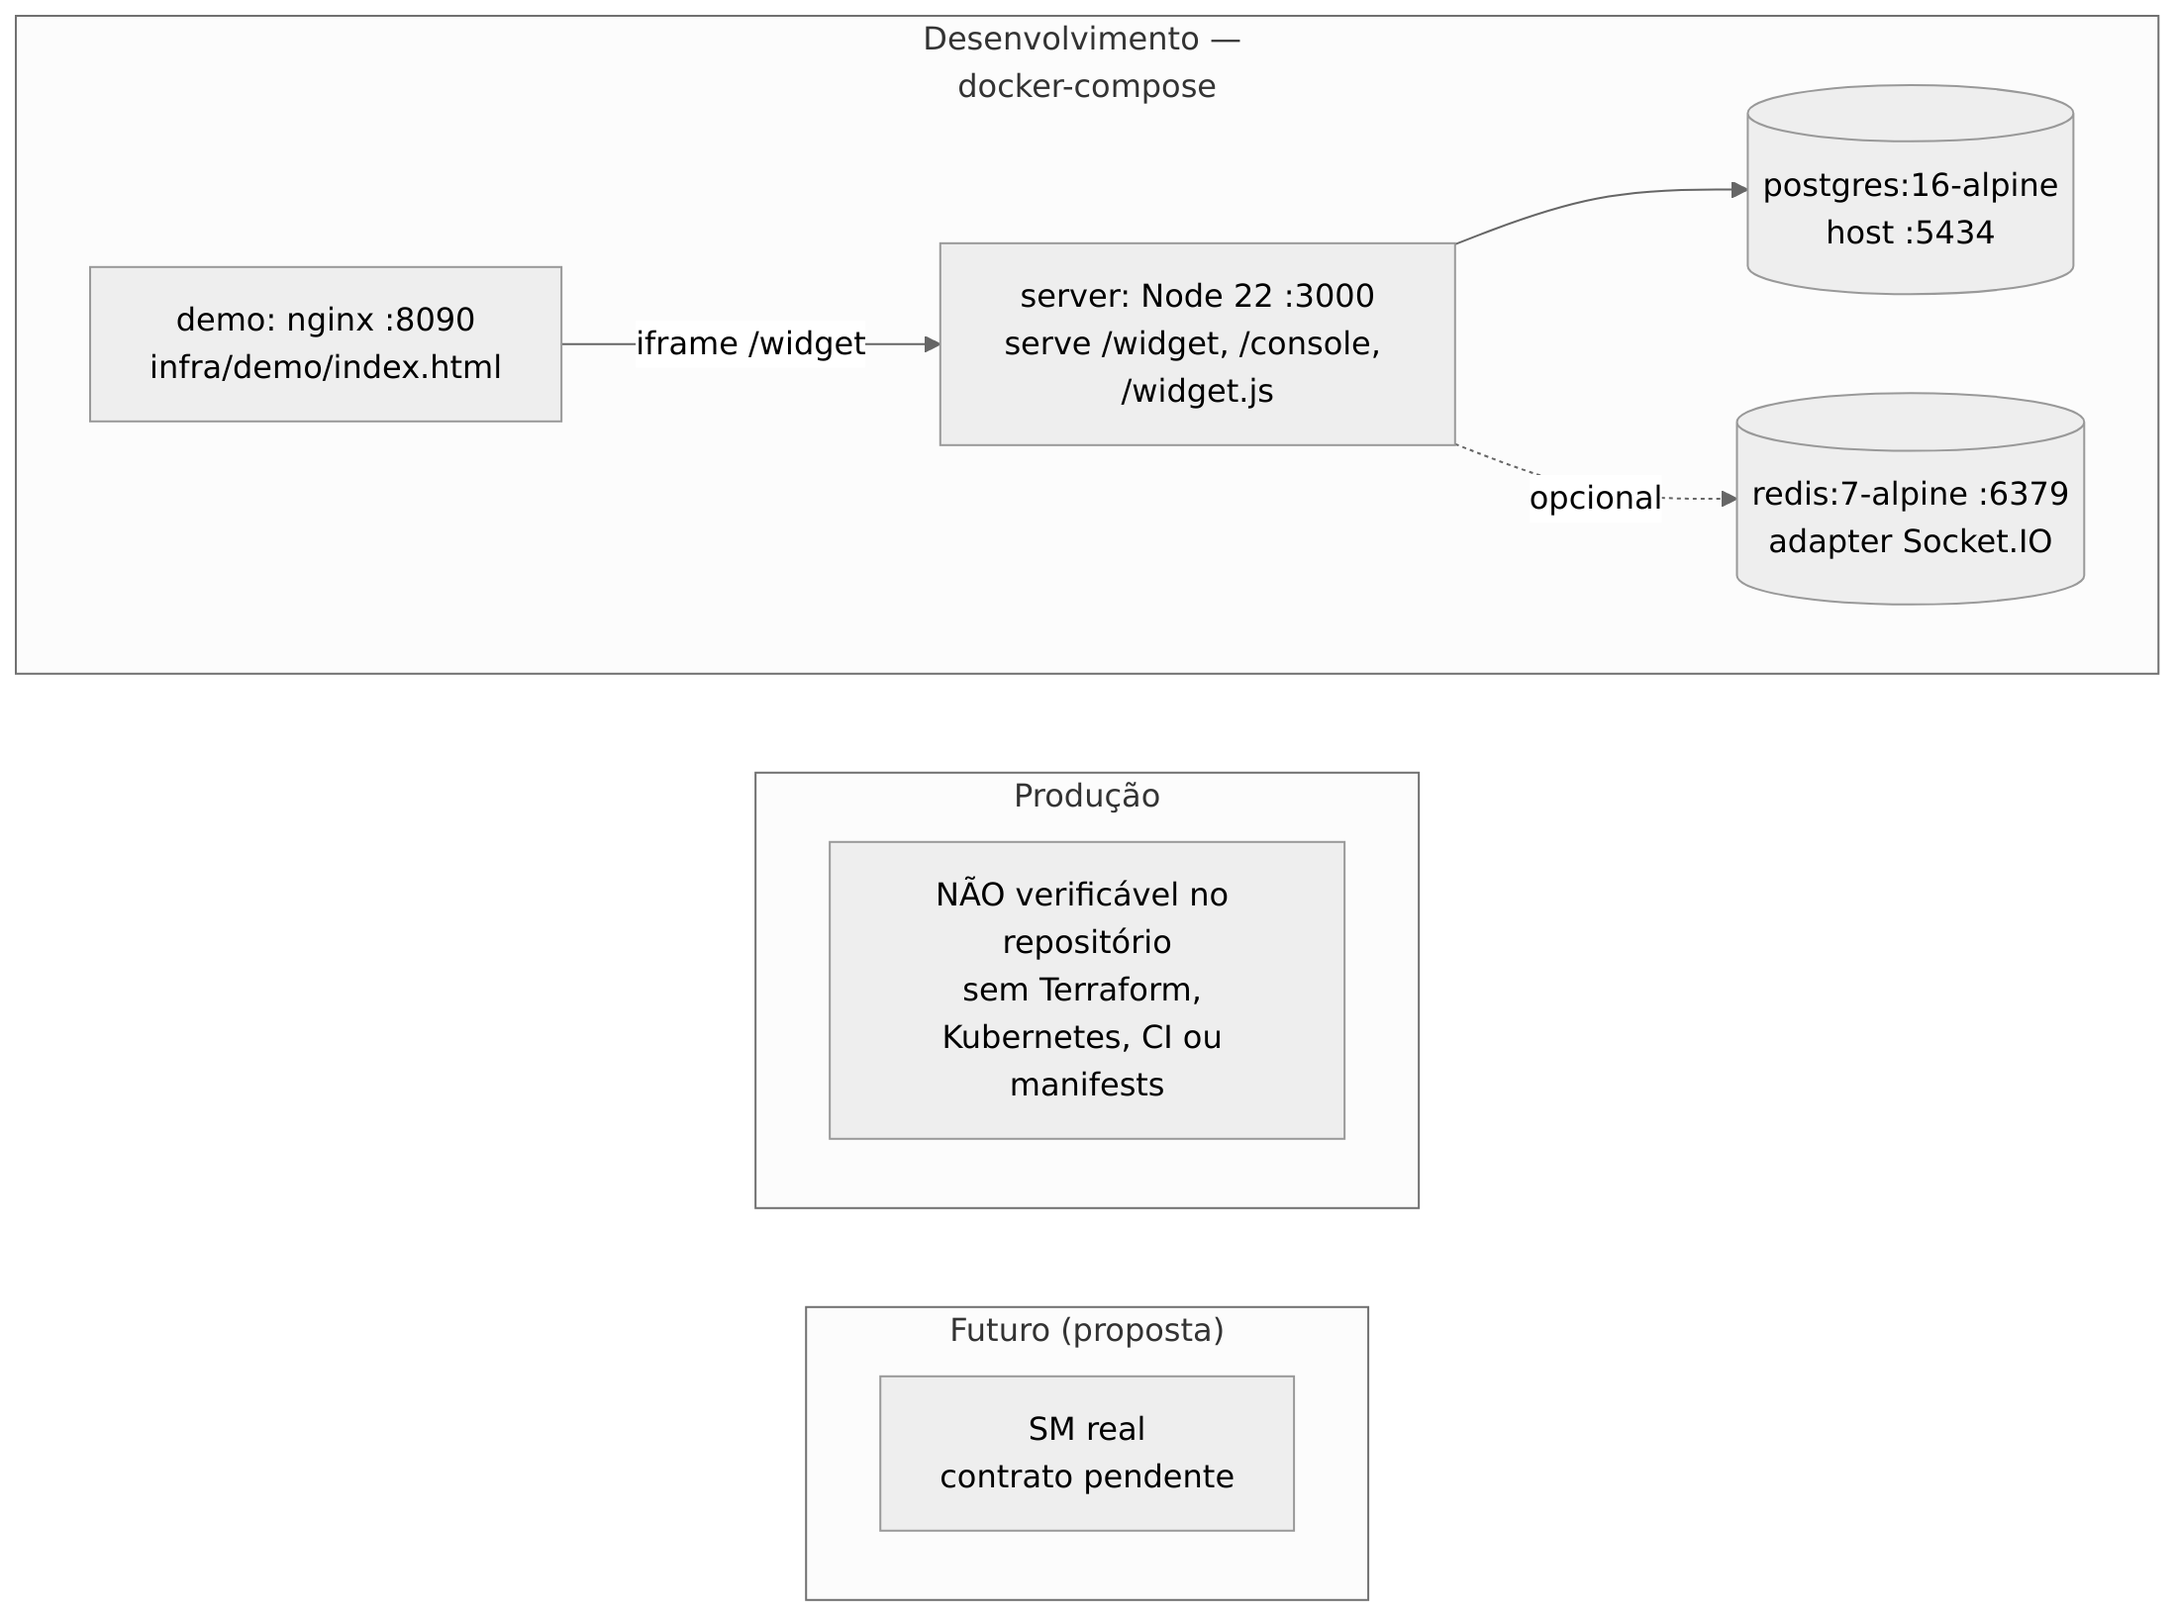
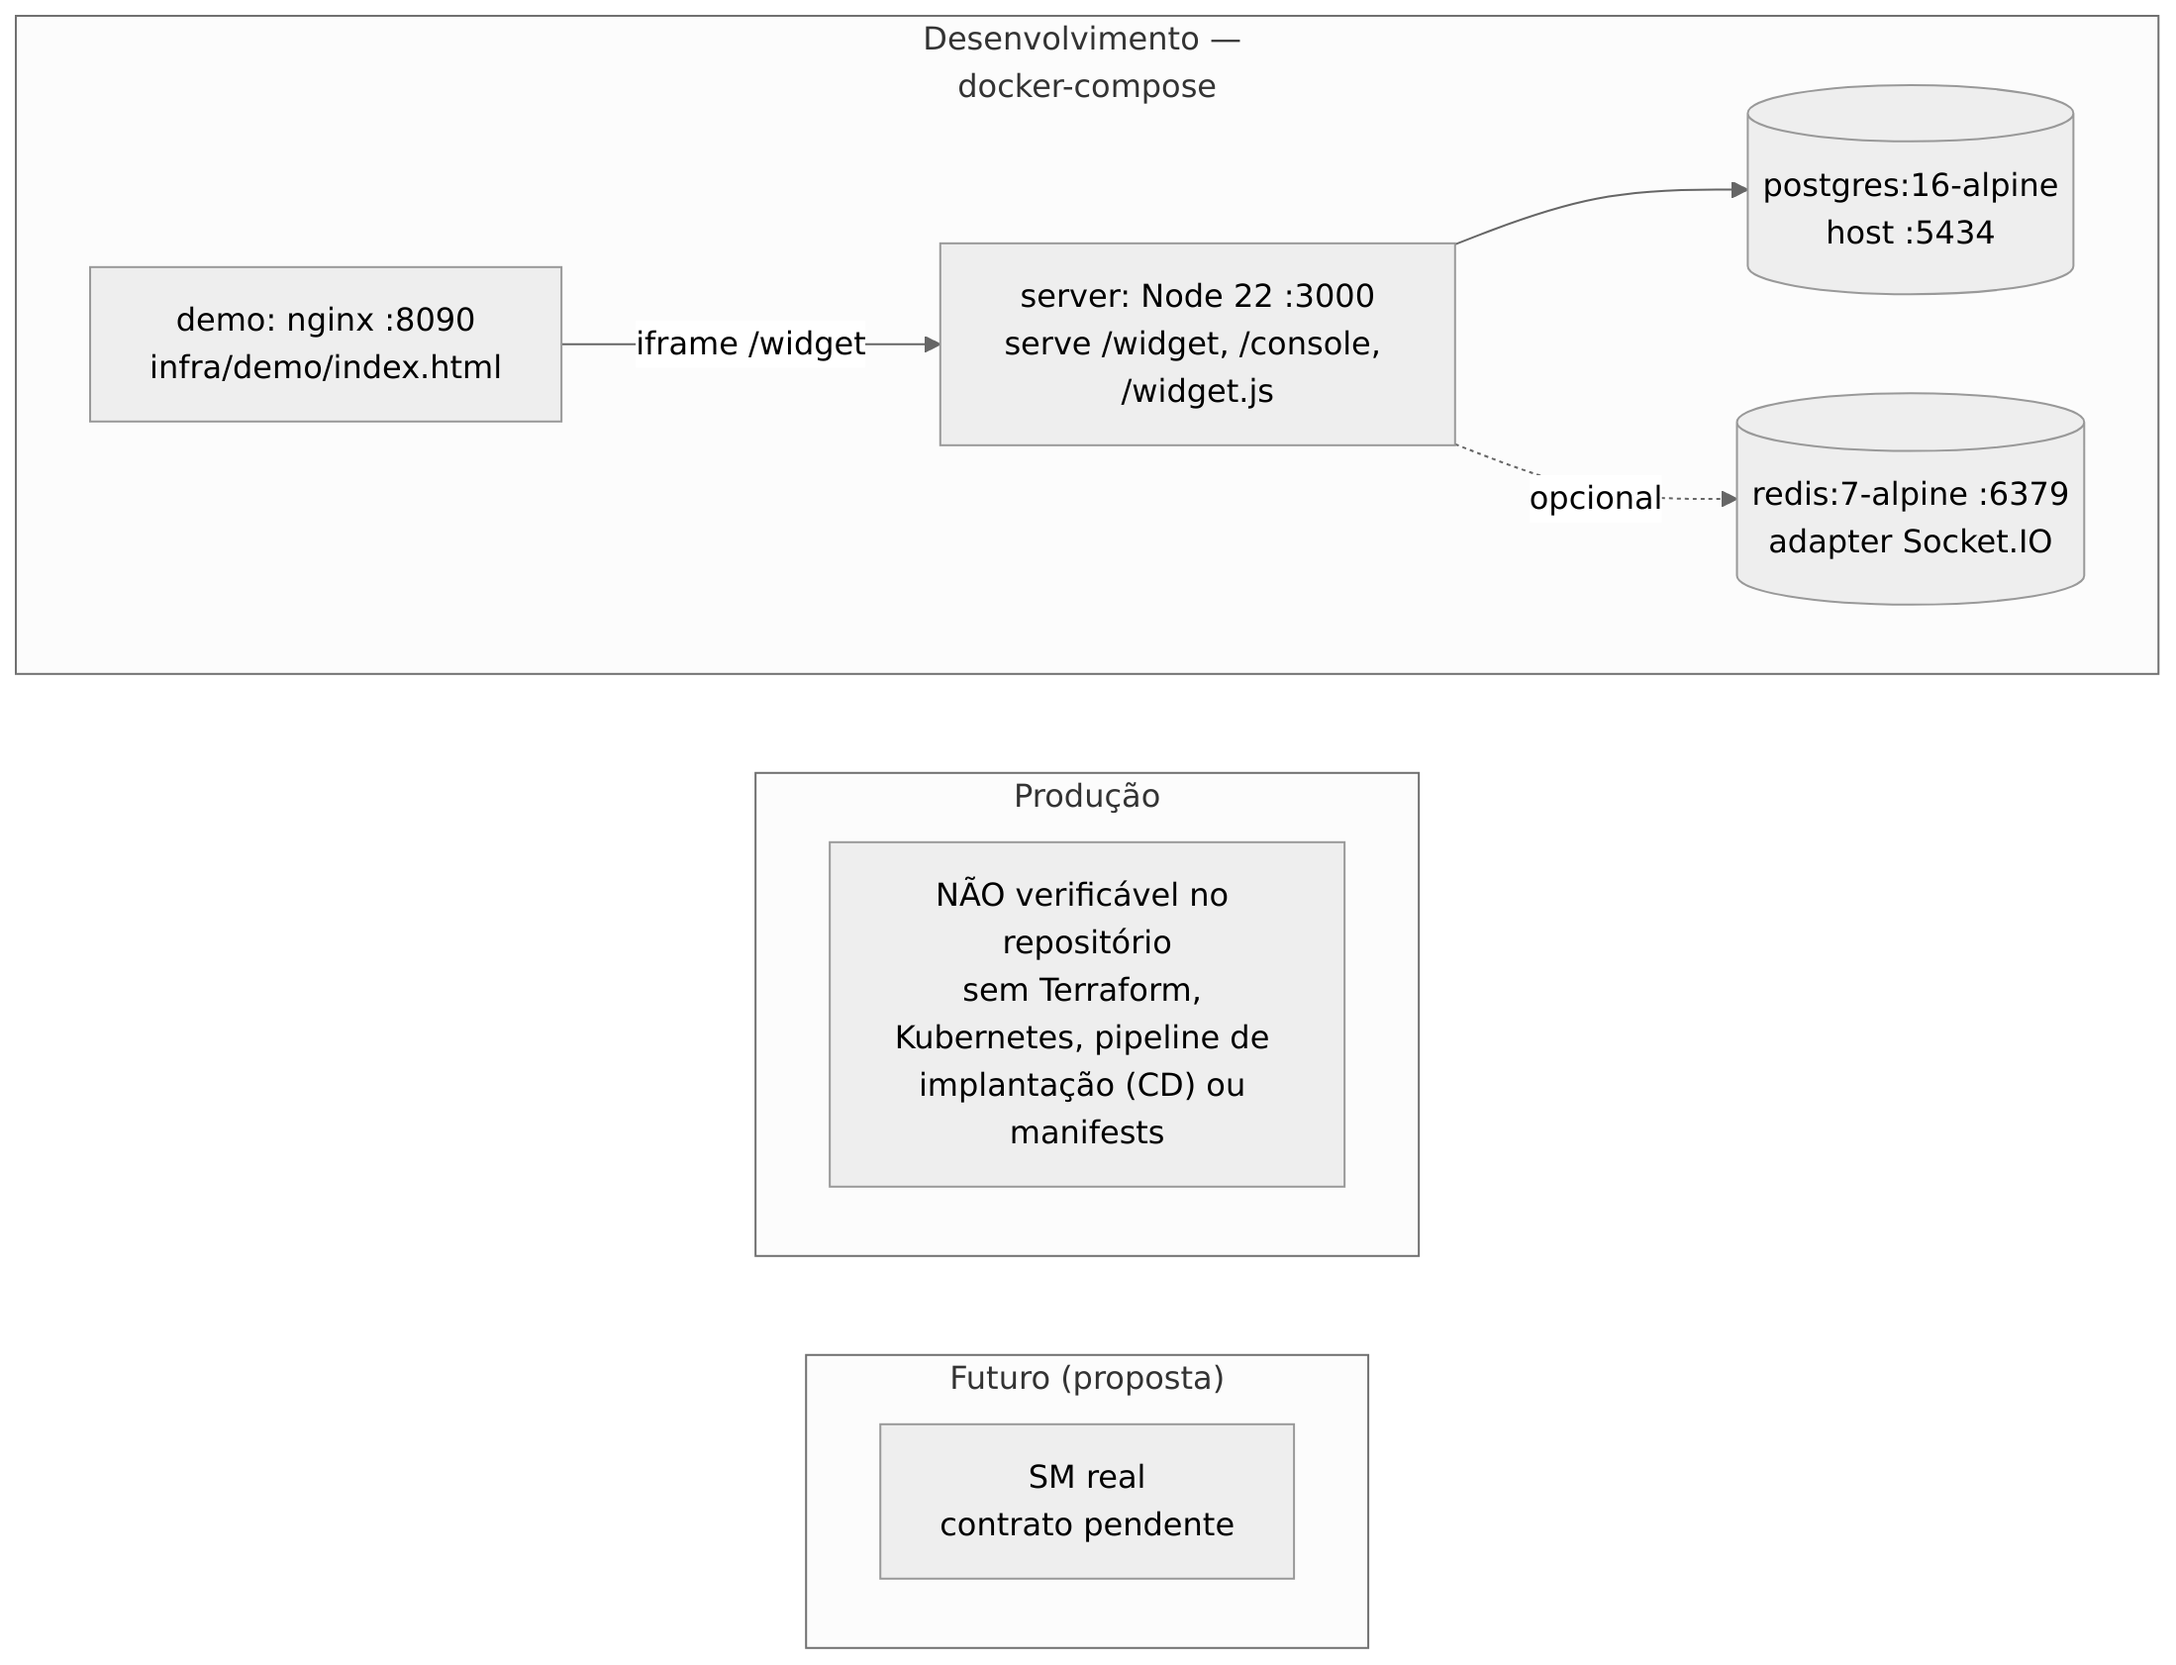
docs: corrige menções à ausência de CI

diff --git a/docs/docs-helper/html/arquitetura/visao-geral.html b/docs/docs-helper/html/arquitetura/visao-geral.html
@@ -72,7 +72,7 @@
 <h2 id="adaptadores-externos" tabindex="-1">Adaptadores externos</h2>
 <p><code>SMAdapter</code> é chamado após o commit, dentro de <code>safeNotify</code> (erro é logado e ignorado). Ver <a href="../integracoes/sm.html">integration-sm.md</a>.</p>
 <h2 id="planejado-%C3%97-implantado" tabindex="-1">Planejado × implantado</h2>
-<p>O repositório contém apenas <code>Dockerfile</code> e <code>docker-compose.yml</code> (ambiente local). <strong>Não há configuração de produção verificável</strong> (sem Terraform, Kubernetes, CI ou manifests). Ver <a href="../implantacao-e-operacao/ambientes.html">environments.md</a>.</p>
+<p>O repositório contém apenas <code>Dockerfile</code> e <code>docker-compose.yml</code> (ambiente local). <strong>Não há configuração de produção verificável</strong> (sem Terraform, Kubernetes, pipeline de implantação (CD) ou manifests). Ver <a href="../implantacao-e-operacao/ambientes.html">environments.md</a>.</p>
 <h2 id="boot-do-servidor" tabindex="-1">Boot do servidor</h2>
 <p><code>main.ts</code>: <code>createSMAdapter</code> → migrations (até 30 tentativas, 500 ms) com o papel de migração → seed se <code>SEED=true</code> → <code>buildApp</code> → listen. Um <code>setInterval</code> de 15 s executa <code>presence.sweep()</code>.</p>
 <section id="diagramas-referenciados"><h2>Diagramas referenciados</h2>

diff --git a/docs/architecture/overview.md b/docs/architecture/overview.md
@@ -44,7 +44,7 @@ Não há barramento interno. Cada handler chama o serviço de domínio e, **apó
 
 ## Planejado × implantado
 
-O repositório contém apenas `Dockerfile` e `docker-compose.yml` (ambiente local). **Não há configuração de produção verificável** (sem Terraform, Kubernetes, CI ou manifests). Ver [environments.md](../deployment/environments.md).
+O repositório contém apenas `Dockerfile` e `docker-compose.yml` (ambiente local). **Não há configuração de produção verificável** (sem Terraform, Kubernetes, pipeline de implantação (CD) ou manifests). Ver [environments.md](../deployment/environments.md).
 
 ## Boot do servidor
 
